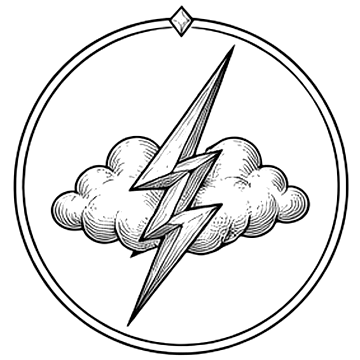
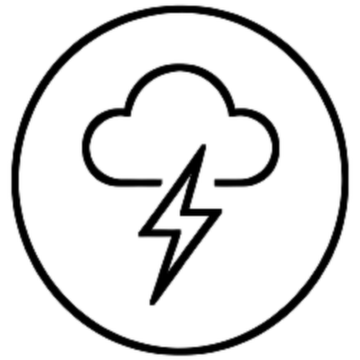
Atualizando ícones seção de 'Seja Criador'.

Changed region(s): [[0.0306, 0.0, 0.9778, 1.0]]

diff --git a/src/components/ui/IconeArquetipo.tsx b/src/components/ui/IconeArquetipo.tsx
@@ -1,9 +1,10 @@
 /**
- * Ícones dos arquétipos (out/2026, pedido do usuário pros cards da aplicação em /criadores): medalhões em gravura de
- * traço fino — concha (Afrodite), diadema (Imperatriz), olho de Hórus com lótus (Cleópatra), estrela (Fada), cauda
- * sobre as ondas (Sereia), raio na nuvem (Zeus), escudo com espada (Guerreiro), louros com coroa (Imperador), fênix
- * nas chamas (Fênix). Gerados por IA (Higgsfield, GPT Image 2.5) numa folha só 3×3, recortados e convertidos em PNG
- * de traço com fundo transparente (`assets/icones/{id}.png`, 360 px). Entram como máscara CSS, então pegam a cor de
+ * Ícones dos arquétipos (out/2026, pedido do usuário pros cards da aplicação em /criadores): medalhões em traço
+ * único (monoline), poucos traços, dentro de um círculo fino — concha (Afrodite), diadema (Imperatriz), olho de Hórus
+ * (Cleópatra), estrela (Fada), cauda sobre as ondas (Sereia), raio na nuvem (Zeus), escudo com espada (Guerreiro),
+ * louros com coroa (Imperador), fênix nas chamas (Fênix). Substituíram a 1ª versão em gravura, detalhada demais em
+ * tela grande. Gerados por IA (Higgsfield, GPT Image 2.5) numa folha só 3×3, recortados, com traço levemente
+ * engrossado e convertidos em PNG com fundo transparente (`assets/icones/{id}.png`, 360 px). Entram como máscara CSS, então pegam a cor de
  * `currentColor` (a cor do arquétipo). Não é arte oficial — trocar pelos da designer quando existirem.
  */
 const ICONES: Record<string, string> = Object.fromEntries(

diff --git a/src/pages/CreatorsPage.tsx b/src/pages/CreatorsPage.tsx
@@ -286,9 +286,9 @@ export function CreatorsPage() {
                         className={`block transition-transform duration-300 ${on ? 'scale-105' : ''} ${arq.status === 'wait' ? 'opacity-40' : ''}`}
                         style={{ color: arq.cor }}
                       >
-                        <IconeArquetipo id={arq.id} className="size-14 lg:size-16" />
+                        <IconeArquetipo id={arq.id} className="size-10 lg:size-12" />
                       </span>
-                      <b className="mt-2 font-display text-[15px] leading-tight font-normal lg:text-base" style={{ color: arq.cor }}>
+                      <b className="mt-2.5 font-display text-[17px] leading-tight font-normal lg:text-xl" style={{ color: arq.cor }}>
                         {arq.nome}
                         <Sobrenome a={arq} />
                       </b>

diff --git a/src/index.css b/src/index.css
@@ -62,9 +62,9 @@
   --color-afrodite: #b9697f;
   --color-imperatriz: #8e4566;
   --color-cleopatra: #a08148;
-  --color-fada: #8fa3b8;
+  --color-fada: #7b5e94; /* lilás empoeirado, contraste ≥ 4,5:1 no creme (out/2026); era #8fa3b8, azulado e claro demais */
   --color-sereia: #3c7484;
-  --color-zeus: #8c8272; /* bege escuro nublado (set/2026) */
+  --color-zeus: #76694f; /* bronze nublado, escurecido pra contraste ≥ 4,5:1 no creme (out/2026); era #8c8272 */
   --color-guerreiro: #4f6484; /* azul aço, na linha do antigo azul do Zeus (set/2026) */
   --color-imperador: #7c5236;
   --color-fenix: #b0563c;

diff --git a/src/data/archetypes.ts b/src/data/archetypes.ts
@@ -121,7 +121,7 @@ const RAW: Omit<Archetype, 'fam'>[] = [
     cod: 'ARQ-04',
     nome: 'Fada',
     sobrenome: 'Pure Light',
-    cor: '#8FA3B8',
+    cor: '#7B5E94',
     bg: '#E9EEF3',
     familias: ['frescos-luminosos', 'florais-elegantes'],
     energia: 'Mistério',
@@ -191,7 +191,7 @@ const RAW: Omit<Archetype, 'fam'>[] = [
     cod: 'ARQ-06',
     nome: 'Zeus',
     sobrenome: 'Stormbreak',
-    cor: '#8C8272',
+    cor: '#76694F',
     bg: '#EFECE6',
     familias: ['amadeirados-especiados', 'ambarados-adocicados'],
     energia: 'Força',

diff --git a/CLAUDE.md b/CLAUDE.md
@@ -360,7 +360,7 @@ decisão de produto já tomada:
 - **`/criadores` existe** (`pages/CreatorsPage.tsx`). Redesenho editorial (out/2026): toda clara (papel / papel-2 com degrau),
   sem os blocos escuros, brilhos, flor e moldura recortada antigos; hero com a foto cobrindo a metade direita
   (degradê suave pro creme no lado esquerdo; no celular cobre o topo), números com filetes, processo em linha do tempo, "A regra" em banner de cetim, kit numerado e
-  aplicação num cartão com um ícone por arquétipo (`ui/IconeArquetipo.tsx`): medalhões em gravura de traço fino
+  aplicação num cartão com um ícone por arquétipo (`ui/IconeArquetipo.tsx`): medalhões em traço único (monoline, poucos traços — a 1ª versão em gravura era detalhada demais em tela grande)
   gerados por IA numa folha 3×3 (Higgsfield, GPT Image 2.5), recortados em `assets/icones/{id}.png` (traço com
   fundo transparente) e pintados na cor do arquétipo por máscara CSS. Ícones vetoriais desenhados à mão e o emblema
   da marca foram testados e descartados. CTA do topo = desenho do botão de compra da PDP. Textos os mesmos. Comissão do afiliado e preço do kit vêm
